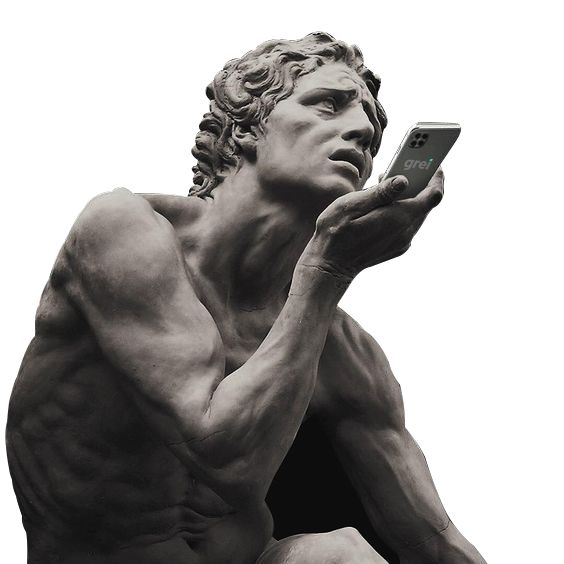
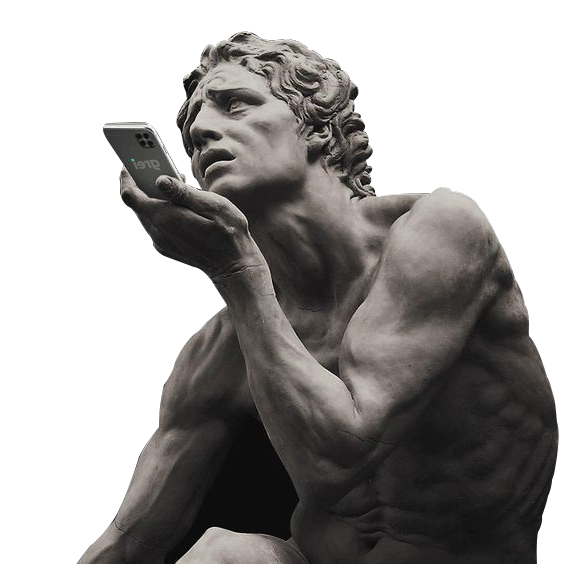
Contact us screen is now left-aligned.

diff --git a/anime_website/src/screens/Contact_Us.js b/anime_website/src/screens/Contact_Us.js
@@ -27,19 +27,20 @@ export default function Contact_Us(){
 
                 backgroundImage:`url(${backgroundImage})`, 
                 backgroundPosition:'center',
-                height:'100%',
+                height:'95%',
+                overflow: 'hidden',
                 backgroundRepeat: 'no-repeat',
                 backgroundSize:"cover",
-                backgroundAttachment: 'fixed'
+                backgroundAttachment: 'fixed',
             }}
         >
             <Navbar showLogo={showLogo}/>
-            <div className="services-container">
+            <div className="contact-container">
 				<div className="contact-box">
-					<div className="services-header contact-header">How to become grei?</div>
-                    <Container  className="contact-box" style={{height:window.innerHeight-100}}>
+					<div className="contact-header">How to become grei?</div>
+                    <div className="contact-box" style={{height:window.innerHeight-100}}>
                         <Row className='contact-row'>
-                            {window.innerWidth>575 &&
+                            {window.innerWidth>5575 &&
                                 <Col
                                     xs={12} sm={6} md={5} xl={5}
                                     data-aos="fade-up-right"
@@ -51,14 +52,13 @@ export default function Contact_Us(){
                                         src={image1} />
                                 </Col>
                             }
-                            <Col className="contact-box-info" xs={12} sm={6} md={7} xl={7} style={{marginTop: "5%"}}>
+                            <Col className="contact-box-info" xs={12} sm={6} md={7} xl={7} style={{marginTop: "3%"}}>
                                 <div className="contact-top-box">
                                     <div  className="contact-us-description">
                                         <span id="top-info">{config.description}</span>
                                     </div>
                                     <div style={{
-                                        textAlign:window.innerWidth<576?"left":"",
-                                        marginLeft:window.innerWidth<576?offsetVal:""
+                                        textAlign:'left'
                                     }}>
                                         <div className="contact-us-info"
                                             onClick={()=>window.open(config.map_address, "_blank")}>
@@ -78,8 +78,7 @@ export default function Contact_Us(){
                                 </div>
                                 <div className="contact-bottom-box"
                                      style={{
-                                        textAlign:window.innerWidth<576?"left":"",
-                                        marginLeft:window.innerWidth<576?offsetVal:""
+                                        textAlign:"left"
                                     }}>
                                     <div className="contact-us-info"
                                         onClick={()=>window.open(config.web_address, "_blank")}>
@@ -98,10 +97,10 @@ export default function Contact_Us(){
                                     </div>
                                 </div>
                             </Col>
-                            {window.innerWidth<575 &&
+                            {window.innerWidth<5575 &&
                                 <Col
                                     xs={12} sm={5} md={5} xl={5}
-                                    data-aos="fade-up-right"
+                                    data-aos="fade-up-left"
                                     data-aos-once="true"
                                 >
                                     <img
@@ -111,7 +110,7 @@ export default function Contact_Us(){
                                 </Col>
                             }
                         </Row>
-                    </Container>
+                    </div>
                 </div>
             </div>
         </div>

diff --git a/anime_website/src/screens/Contact_Us.css b/anime_website/src/screens/Contact_Us.css
@@ -1,15 +1,27 @@
+.contact-container{
+
+    justify-content: left;
+    overflow:hidden;
+}
 .contact-header{
     margin-top: 18vh !important;
+    text-align: left;
+    margin-bottom: 1%;
+    margin-top:3%;
+    padding-left: 3vw;
 }
 .contact-box{
     width: 100%;
     max-width: none !important;
+    padding-left: 3vw;
 }
 
 .contact-row{
     display: flex;
-    justify-content: center;
+    display-items:flex-top;
+    justify-content: left;
     height: 100%;
+    margin-left: 2vw;
 }
 .aos-animate{
     padding-left:0px !important;
@@ -23,12 +35,11 @@
     font-size: larger;
     margin-bottom: 15px;
     font-size: 2vw;
-    margin-left: 1vw;
 }
 .contact-us-info{
     font-size: 1.5vw;
     font-family: LisztFYRegular,Georgia,Times,serif;
-    padding: 10px 15px;
+    padding: 10px 0px;
     cursor: pointer;
 }
 .contact-us-info:hover{
@@ -79,19 +90,20 @@
 .contact-bottom-box{
     margin-top: 3%;
 }
+
+.contact-box-info{
+    text-align: left;
+    margin-left:0;
+    padding-left: 0;
+}
+
 @media (max-width:575px){
-    .contact-box-info{
-        text-align: center;
-    }
     .contact-header {
         margin-top: 13vh !important;
     }
     .contact-img{
         width:50%;
-    }
-    .contact-row{
-        display: flex;
-        justify-content: center;
+        margin-left:50%;
     }
     .contact-us-description {
         font-size: 15px;
